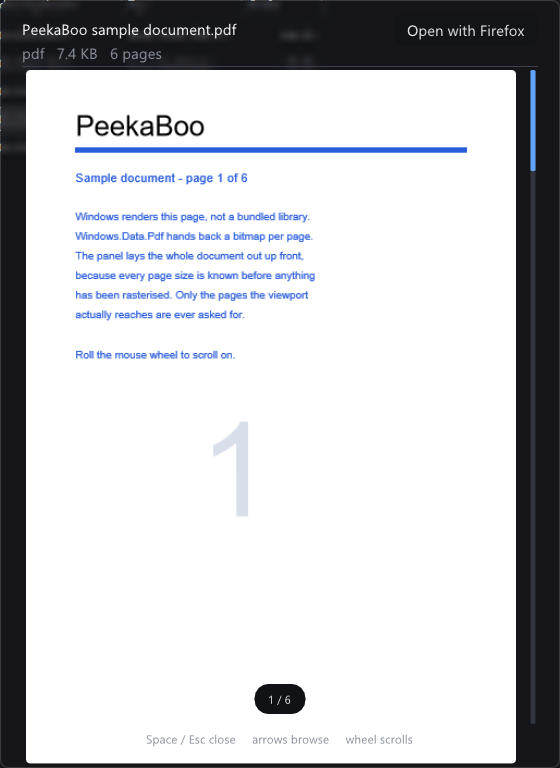
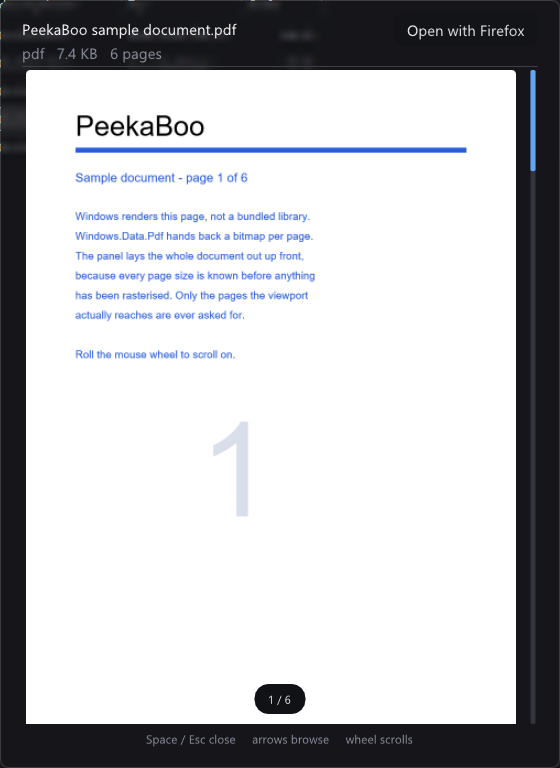
Keep the PDF column behind the header and the footer
The pages were drawn straight onto the panel with no clip, so a page scrolled
halfway out painted over the title and the key hints. The column is now confined
to the content area. The header trades the decode time, which for a PDF timed
the shell thumbnail rather than the document, for the page count.

Also rewrites the README as a user document: half the length, screenshots, and a
table of what is supported and what is not.

diff --git a/src/overlay.cpp b/src/overlay.cpp
@@ -791,6 +791,10 @@ void Overlay::drawPdf(const ImVec2& min, const ImVec2& max, float ease) {
     int firstVisible = -1;
     int lastVisible = -1;
 
+    // A page scrolled halfway out would otherwise paint straight over the title
+    // and the key hints: the column is only ever allowed inside the content area.
+    draw->PushClipRect(min, max, true);
+
     for (int index = 0; index < static_cast<int>(pdfLayout_.size()); ++index) {
         const pdf::Page& page = pdfLayout_[index];
         const float aspect = page.width > 0.0f ? page.height / page.width : 1.414f;
@@ -815,6 +819,8 @@ void Overlay::drawPdf(const ImVec2& min, const ImVec2& max, float ease) {
                          std::format("page {}", index + 1));
         }
     }
+
+    draw->PopClipRect();
 
     if (firstVisible >= 0) pdfPage_ = firstVisible;
 

diff --git a/README.md b/README.md
@@ -1,5 +1,5 @@
 <p align="center">
-  <img src="doc/icon.png" alt="PeekaBoo" width="128">
+  <img src="doc/icon.png" alt="PeekaBoo" width="112">
 </p>
 
 <h1 align="center">PeekaBoo</h1>
@@ -9,10 +9,9 @@
 ---
 
 Pick a file in **Windows Explorer** or on the **desktop**, tap **Space**, and the preview panel is
-simply there. Tap **Space** or **Esc** to make it go away.
-
-Leave it open and walk through the folder with the **arrow keys**: Explorer moves its selection and
-the preview follows along without a loading hitch.
+simply there. Tap **Space** or **Esc** to make it go away. Leave it open and walk through the
+folder with the **arrow keys**: Explorer moves its selection and the preview follows without a
+loading hitch.
 
 PeekaBoo has no window of its own. It sits in the notification area and stays out of the way until
 you ask for something.
@@ -21,11 +20,9 @@ you ask for something.
 
 ## Getting started
 
-1. Run `peekaboo.exe`. A small eye icon appears in the notification area.
-2. Click a file in Explorer and press **Space**.
-3. Right-click the tray icon and switch on **Start with Windows** if you want it there for good.
-
-## Controls
+Run `peekaboo.exe`. A small eye icon appears in the notification area. Click a file in Explorer,
+press **Space**. Right-click the tray icon and tick **Start with Windows** if you want it there for
+good — that writes one entry for your own user account, nothing system-wide, no admin rights.
 
 | Key | What it does |
 | --- | --- |
@@ -33,87 +30,76 @@ you ask for something.
 | `Esc` | close the preview |
 | arrow keys | move the Explorer selection; the open preview follows |
 | `Enter` | play / pause an audio or video preview |
-
-The tray icon's right-click menu has two entries: **Start with Windows**, a checkmark you can
-toggle at any time, and **Exit PeekaBoo**. Autostart is off until you turn it on, and it only ever
-writes a single entry for your own user account — nothing system-wide, no administrator rights.
+| mouse wheel | volume on media, scrolling on a PDF or a text file |
 
 One trade-off worth knowing: while PeekaBoo runs it takes `Space` whenever Explorer or the desktop
 has focus, so Explorer's type-ahead search cannot contain spaces during that time. The macOS
-shortcut this borrows from makes exactly the same bargain.
-
-## Playing audio and video
-
-![A video preview with the transport controls](doc/preview-video.png)
-
-Media files get a full set of controls, floating over the picture rather than taking room from it:
-
-| Control | What it does |
-| --- | --- |
-| ▶ / ❚❚ | play or pause — the `Enter` key does the same |
-| ⏪ ⏩ | jump ten seconds back or forward |
-| progress bar | click anywhere to jump there; hold and drag to scrub |
-| volume slider | right hand edge — drag it, or roll the **mouse wheel** anywhere over the panel |
-
-The volume you set carries over to the next file you preview. Audio-only files show their embedded
-cover art in place of the picture. The controls are cut out of the same frosted material as the
-panel itself, so the video keeps the whole window.
+shortcut this borrows from makes the same bargain.
 
 ## What can be previewed
 
-Everything below works out of the box — there is nothing to install, no codec pack, no plugins.
+Nothing to install — no codec pack, no plugins.
 
 | Files | How they are shown |
 | --- | --- |
-| `png` `jpg` `jpeg` `bmp` `gif` `tga` `psd` `hdr` `ppm` `pgm` | decoded directly and shown at full quality |
-| `webp` `tiff` `tif` `ico` `heic` `heif` `avif` `jxr` | decoded by Windows itself, using whatever image codecs you have installed |
-| `txt` `md` `csv` `log` `json` `xml` `yaml` `ini` and ~40 code extensions | as monospace text, scrollable, even for very large files |
-| `mp4` `m4v` `mov` `mkv` `avi` `wmv` `webm` `mpg` `mpeg` `ts` `flv` | played with sound, picture and the transport controls |
-| `mp3` `wav` `flac` `m4a` `aac` `wma` | played, with the embedded cover art if the file has one |
-| `pdf`, Office documents, anything else | the same thumbnail Explorer shows, plus name, size and file type |
+| `png` `jpg` `jpeg` `bmp` `gif` `tga` `psd` `hdr` `ppm` `pgm` | decoded directly, shown at full quality |
+| `webp` `tiff` `tif` `ico` `heic` `heif` `avif` `jxr` | decoded by Windows, using the image codecs you have installed |
+| `txt` `md` `csv` `log` `json` `xml` `yaml` `ini` and ~40 code extensions | monospace text, scrollable, even for very large files |
+| `pdf` | every page, rendered by Windows, as one scrolling column |
+| `mp4` `m4v` `mov` `mkv` `avi` `wmv` `webm` `mpg` `mpeg` `ts` `flv` | played, with picture, sound and transport controls |
+| `mp3` `wav` `flac` `m4a` `aac` `wma` | played, with the embedded cover art if there is one |
+| anything else | the thumbnail Explorer shows, plus name, size and file type |
 
 A file with no extension, or an unknown one, is sniffed: if the first few kilobytes look like text,
-it is shown as text. Otherwise you get the shell's thumbnail or the file type icon, so pressing
-Space never leaves you staring at nothing.
-
-![A text preview](doc/preview-text.png)
+it is shown as text. Otherwise you get the shell's thumbnail, so pressing Space never leaves you
+staring at nothing.
 
 ### What does not work
 
-| Not supported | Why, and what happens instead |
+| Not supported | What happens instead |
 | --- | --- |
-| `ogg` `opus` audio and video | Windows ships no decoder for them. The panel says the file cannot be decoded. |
-| exotic codecs inside a supported container | An `mkv` or `avi` is only as playable as the codec inside it. Same message. |
-| animated `gif`, `webp` | Shown as a still image — the first frame. |
-| RAW camera files (`cr2`, `nef`, `arw`, …) | Only if you installed the vendor's or Microsoft's RAW codec; otherwise the shell thumbnail. |
-| `svg` | No vector rendering. You get the shell thumbnail. |
-| PDF and Office documents | Not rendered as documents, only the shell thumbnail — the same picture Explorer shows. |
-| Subtitles, multiple audio tracks | The first audio track is played; subtitle tracks are ignored. |
-| Text beyond 1 MiB | The rest is cut off; the footer says so. |
+| `ogg` `opus` | Windows has no decoder for these unless you installed one. The panel says so. |
+| exotic codecs in a supported container | An `mkv` is only as playable as the codec inside it. Same message. |
+| animated `gif`, `webp` | The first frame, as a still image. |
+| RAW camera files, `svg` | The shell thumbnail, unless a codec for them is installed. |
+| Office documents | The shell thumbnail — the same picture Explorer shows. |
+| subtitles, multiple audio tracks | The first audio track plays; subtitles are ignored. |
+| text beyond 1 MiB | Cut off; the footer says so. |
+| encrypted PDFs | Not opened. The panel says so. |
 
 If a file cannot be decoded, the **Open with …** button at the top right hands it to the
-application that owns the file type.
+application that owns the type.
+
+## Media and PDFs
+
+![A video preview with the transport controls](doc/preview-video.png)
+
+Media files get a transport row and a volume slider, floating over the picture rather than taking
+room from it: play/pause, ten second skips either way, a progress bar you can click or drag, and a
+slider on the right edge that the mouse wheel also drives. The volume carries over to the next file.
+
+PDFs open as one continuous column of pages. Roll the wheel to scroll; pages are rendered as you
+reach them, so a long document opens as fast as a short one.
+
+<p align="center">
+  <img src="doc/preview-pdf.png" alt="A PDF preview" width="360">
+  <img src="doc/preview-text.png" alt="A text preview" width="420">
+</p>
 
 ## How fast it is
 
-The panel footer shows live numbers while it is open: how long the preview took from keypress to
-picture, whether the file was already prepared, the frame rate and the cache usage.
+Browsing a folder with the arrow keys is the case it is built for: PeekaBoo prepares the two
+neighbours in each direction ahead of time, so the next file's preview is already decoded and on
+the graphics card by the time you get there. On the machine these screenshots were taken on that is
+**around 30 ms** for a prepared file against roughly 180 ms for one decoded on the spot.
 
-Browsing a folder with the arrow keys is the case it is built for. PeekaBoo prepares the two
-neighbours in each direction ahead of time, so by the time you step to the next file its preview is
-already decoded and sitting on the graphics card. On the machine these screenshots were taken on
-that reads as **around 30 ms** for a prepared file against roughly 180 ms for one decoded on the
-spot. Decoded previews are kept in a 512 MB cache, and nothing is ever decoded on the thread that
-draws, which is why the panel does not stutter even on a large file.
+Nothing is ever decoded on the thread that draws, so the panel does not stutter on a large file.
+With no preview open, PeekaBoo draws nothing at all; with one open it caps itself at 60 FPS.
 
-At rest PeekaBoo does nothing at all: no preview open means no frames drawn. With one open it caps
-itself at 60 FPS, because a mostly static panel has no business driving a 240 Hz display.
+## Building it
 
-## Building it yourself
-
-You need CMake 3.24+, a C++20 compiler and — on the first configure only — a network connection, so
-GLFW, Dear ImGui, stb and miniaudio can be fetched at pinned versions. Everything else comes from
-Windows.
+CMake 3.24+, a C++20 compiler, and a network connection on the first configure so GLFW, Dear ImGui,
+stb and miniaudio can be fetched at pinned versions. Everything else comes from Windows.
 
 ```bash
 cmake -S . -B build -G Ninja -DCMAKE_BUILD_TYPE=Release
@@ -123,40 +109,38 @@ cmake -S . -B build -G Ninja -DCMAKE_BUILD_TYPE=Release
 cmake --build build
 ```
 
-The result is `build\peekaboo.exe`, a single executable with no install step and no runtime to
-deploy. Tested with MinGW g++ 15.2 and with MSVC on Windows 11.
+The result is `build\peekaboo.exe` — one executable, no install step, no runtime to deploy. Tested
+with MinGW g++ 15.2 and with MSVC on Windows 11.
 
 ## Under the hood, briefly
 
-Windows only. Media playback goes through Media Foundation, which is already part of the system —
-no ffmpeg, no bundled binaries. The selection is read from Explorer through the shell's own
-interfaces, and `Space` is caught with a low-level keyboard hook, which is what lets the panel
-appear without ever stealing focus from Explorer.
+Windows only. Video and audio go through Media Foundation and PDFs through `Windows.Data.Pdf` —
+both already part of the system, so there is no ffmpeg and no bundled renderer. The selection is
+read from Explorer through the shell's own interfaces, and `Space` is caught with a low-level
+keyboard hook, which is what lets the panel appear without ever taking focus from Explorer.
 
-The frosted backdrop is drawn by PeekaBoo rather than by Windows: the screen is captured the moment
-before the panel appears and shrunk hard, which is what produces the blur. That also means it is a
-still picture — anything moving behind the panel while it is open is not picked up.
-
-Six source files, no framework:
+The frosted backdrop is drawn by PeekaBoo, not by Windows: the screen is captured the moment before
+the panel appears and shrunk hard, which is what produces the blur. It is therefore a still picture
+— anything moving behind the panel is not picked up.
 
 | File | Responsibility |
 | --- | --- |
 | `src/main.cpp` | tray icon, keyboard and mouse hooks, event loop |
 | `src/shell.cpp` | which file is selected in the focused Explorer or desktop view |
 | `src/media.cpp` | audio and video: decoding, output, clock, seeking |
+| `src/pdf.cpp` | PDF page rasterising |
 | `src/preview.cpp` | worker pool, file I/O, image and text decoding, shell icons |
-| `src/overlay.cpp` | the panel itself: layout, drawing, transport and volume controls |
+| `src/overlay.cpp` | the panel: layout, drawing, transport, volume, page scrolling |
 | `src/startup.cpp` | the autostart entry behind the tray menu toggle |
 
-The icon is vector art; `doc/icon.svg` is the master that `src/peekaboo.ico` is generated from.
+The icon is vector art; `doc/icon.svg` is the master `src/peekaboo.ico` is generated from.
 
 ## Known limitations
 
-- Windows only.
-- The backdrop is frozen while the panel is open.
+- Windows only, and the backdrop is frozen while the panel is open.
 - Explorer's own sort order is not read; neighbour prefetch walks the folder by name.
-- Media files are not prepared ahead of time — a folder of videos would otherwise start a decoder
-  per neighbour. They show the shell's poster until the first frame arrives.
-- Mouse wheel scrolling in text previews relies on the Windows "scroll inactive windows on hover"
-  setting, which is on by default, because the panel never takes focus. Over a media preview the
-  wheel always works, since PeekaBoo picks it up itself to set the volume.
+- Media and PDFs are not prepared ahead of time — a folder of videos would otherwise start a
+  decoder per neighbour. They show the shell's thumbnail until the first frame or page arrives.
+- Wheel scrolling in text previews relies on the Windows "scroll inactive windows on hover"
+  setting, which is on by default, because the panel never takes focus. Over media and PDFs the
+  wheel always works, since PeekaBoo picks it up itself.
